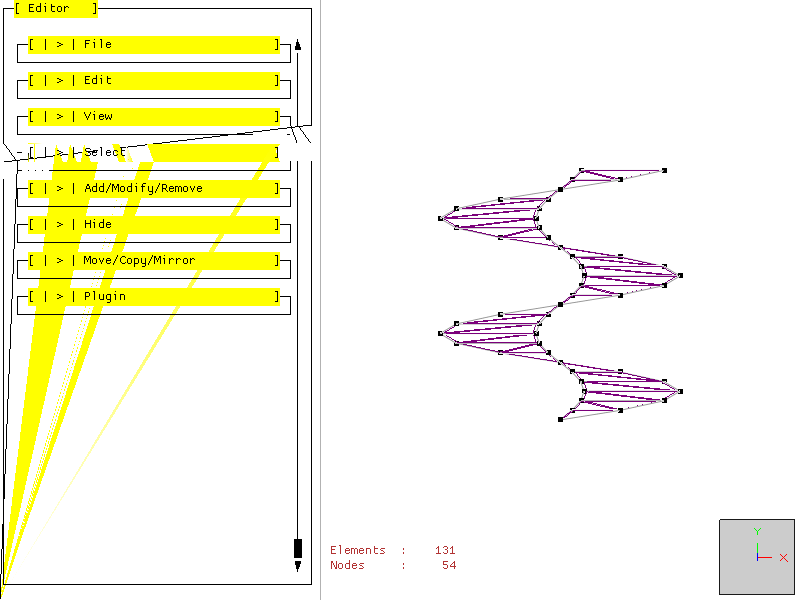
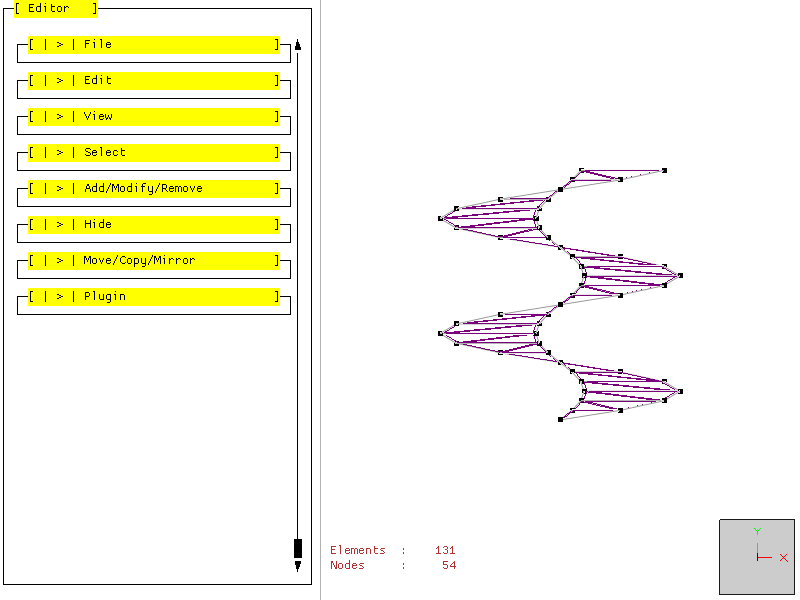
add tests for Cylinder lines select

diff --git a/model_test.go b/model_test.go
@@ -80,7 +80,7 @@ func TestIntegration(t *testing.T) {
 			name = strings.ReplaceAll(name, " ", "_")
 			screenshot(filepath.Join(
 				testdata,
-				fmt.Sprintf("Test%03d-%03d-%s.png",testCounter, counter, name),
+				fmt.Sprintf("Test%03d-%03d-%s.png", testCounter, counter, name),
 			))
 			counter++
 		}
@@ -326,17 +326,44 @@ func TestIntegration(t *testing.T) {
 		clean()
 		{
 			testHeader()
-			run("DemoSpiral", func() { mm.DemoSpiral(10) })
+			run(reset, func() { mm.DemoSpiral(10) })
 			run(reset, func() { mm.StandardView(StandardViewXOYpos) })
+			run("ViewAll", func() { mm.ViewAll(true) })
+			var id uint
+			run("AddNode", func() { id = mm.AddNode(0, 0, 0) })
+			run("SelectLinesCylindrical - radiant", func() {
+				mm.SelectLinesCylindrical(
+					id,
+					true, false,
+					DirY,
+				)
+			})
+			var ns, es []uint
+			run(reset, func() {
+				ns = mm.GetSelectNodes(false)
+				es = mm.GetSelectElements(false, nil)
+			})
+			run("Hide", func() { mm.Hide(ns, es) })
+			run("SelectLinesCylindrical - conc", func() {
+				mm.SelectLinesCylindrical(
+					id,
+					false, true,
+					DirY,
+				)
+			})
+			run(reset, func() {
+				ns = mm.GetSelectNodes(false)
+				es = mm.GetSelectElements(false, nil)
+			})
+			run("Hide", func() { mm.Hide(ns, es) })
+			run("Unhide", func() { mm.UnhideAll() })
 		}
-		// SelectLinesCylindrical
 		// MergeLines
 		// Hide
 		// UnhideAll
 		// IsChangedModel
 		// GetPresentFilename
 		// Save
-		// ViewAll
 		// AddNode
 		// AddLineByNodeNumber
 		// AddTriangle3ByNodeNumber

diff --git a/undo.go b/undo.go
@@ -245,6 +245,7 @@ func (u *Undo) GetElements() []Element {
 func (u *Undo) Hide(coordinates, elements []uint) {
 	logger.Print("Hide")
 	u.model.Hide(coordinates, elements)
+	u.DeselectAll()
 }
 
 func (u *Undo) UnhideAll() {
